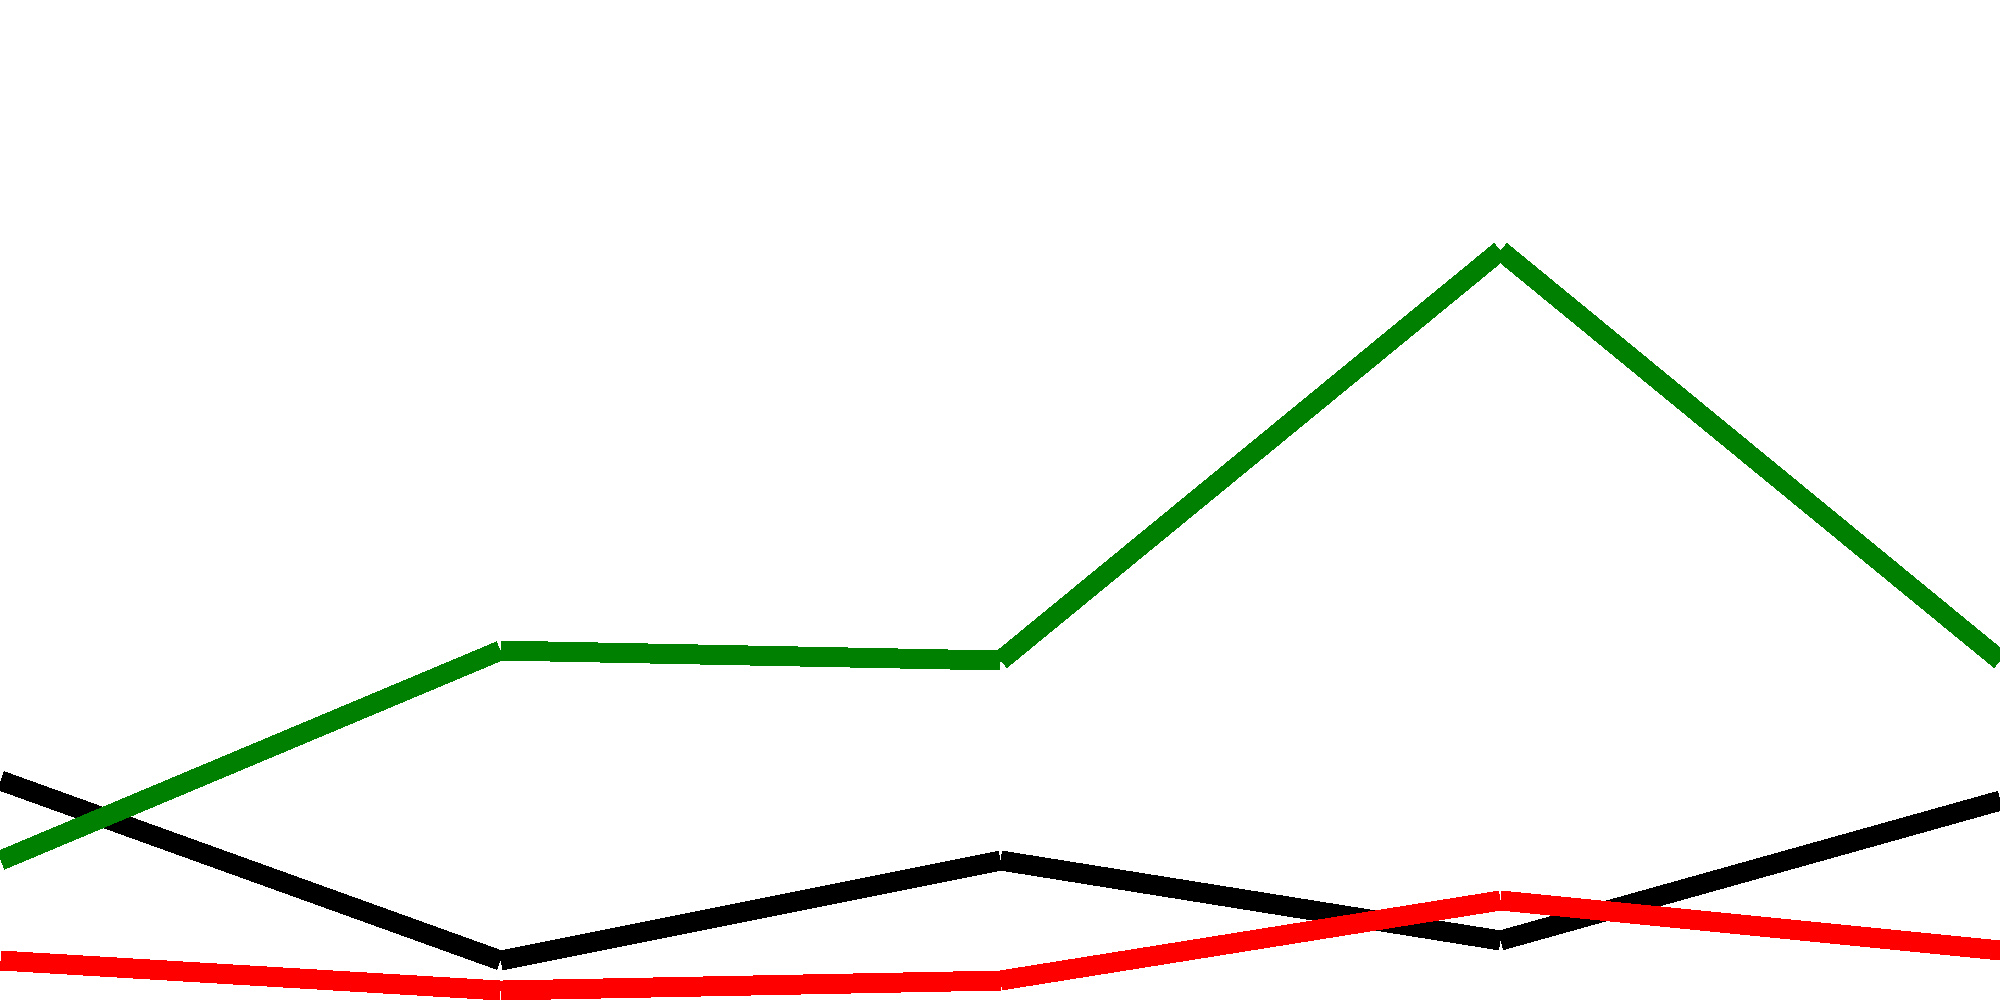
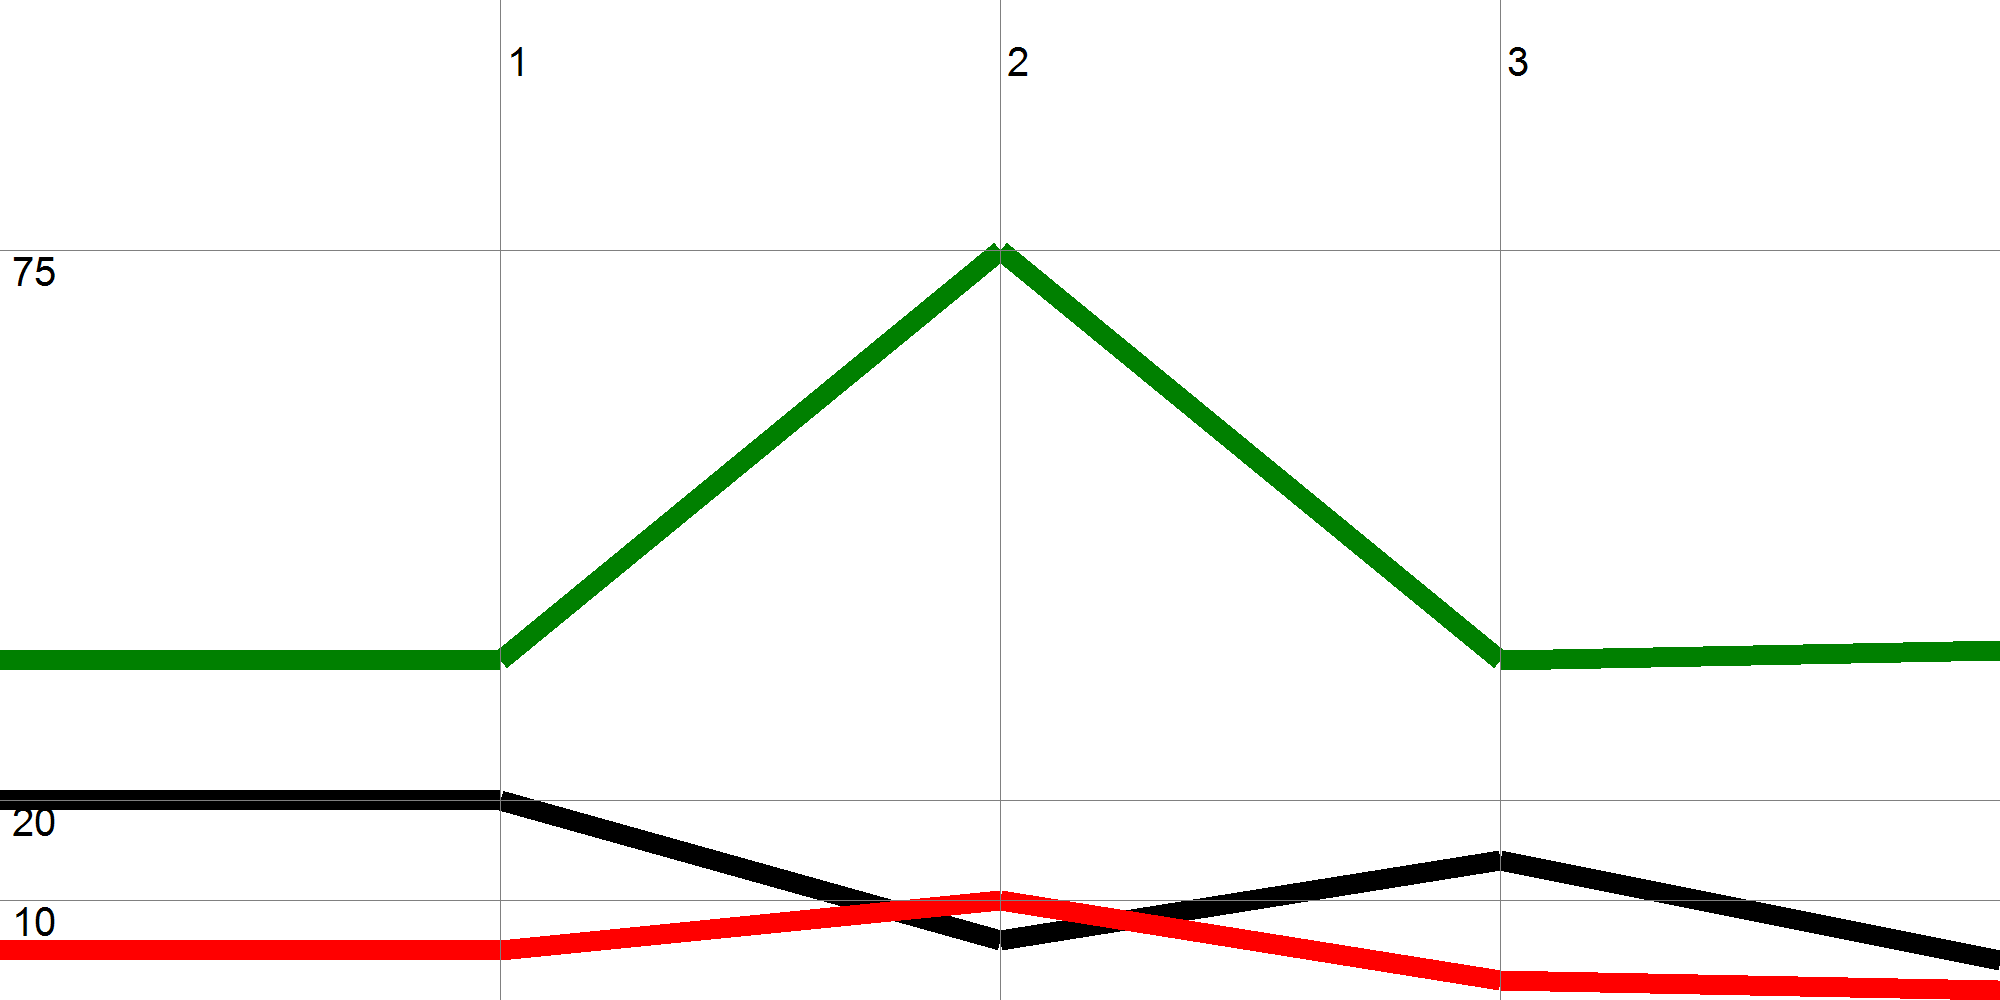
Add references to value on axis

diff --git a/Assets/Statistics/ImageScript.cs b/Assets/Statistics/ImageScript.cs
@@ -3,72 +3,115 @@ using System.Collections;
 using System.Drawing;
 using UnityEngine.UI;
 using System.Collections.Generic;
-//using System.Windows.Forms;
 using System;
 
 public class ImageScript : MonoBehaviour {
-	
+
+	private const int width = 2000;
+	private const int height = 1000;
+	private const int widthPen = 20;
+	private const int measureQuantity = 3;
+
+	public int scale;
+
 	private GameObject raw;
 
-	public void DrawLineInt(Bitmap bmp){
-		Pen blackPen = new Pen(System.Drawing.Color.Black, 20);
-		Pen greenPen = new Pen(System.Drawing.Color.Green, 20);
-		Pen redPen = new Pen(System.Drawing.Color.Red, 20);
+	public void drawLines(Bitmap bmp){
+		Pen blackPen = new Pen(System.Drawing.Color.Black, widthPen);
+		Pen greenPen = new Pen(System.Drawing.Color.Green, widthPen);
+		Pen redPen = new Pen(System.Drawing.Color.Red, widthPen);
 
 		using(var graphics = System.Drawing.Graphics.FromImage(bmp)){
 			long count = DatabaseSingleton.Instance.db.SelectCount("from Measure where playerId==?", Convert.ToInt64(1));
 		
-			int rounds = (Convert.ToInt32(count)/3);
-			int x = 2000/rounds;
-			int j = 0;
+			int rounds = (Convert.ToInt32(count)/measureQuantity);
+			int x = width/rounds;
+			int j = 0, max = 0, min = 0, average = 0;
 			Measure last = new Measure(0, 0, 0, 0, 0, 0);
 			foreach(var i in DatabaseSingleton.Instance.db.Select<Measure>("from Measure where playerId==? order by type", Convert.ToInt64(1))){
 				int x1 = x*j;
-				int y1 = 1000 - (last.average * 10);
+				int y1 = height - (last.average * scale);
 				int x2 = x*(j+1);
-				int y2 = 1000 - (i.average * 10);
+				int y2 = height - (i.average * scale);
+				average = Math.Max(average, i.average);
 
 				int x3 = x*j;
-				int y3 = 1000 - (last.min * 10);
+				int y3 = height - (last.min * scale);
 				int x4 = x*(j+1);
-				int y4 = 1000 - (i.min * 10);
+				int y4 = height - (i.min * scale);
+				min = Math.Max(min, i.min);
 
 				int x5 =  x*j;
-				int y5 = 1000 - (last.max * 10);
+				int y5 = height - (last.max * scale);
 				int x6 = x*(j+1);
-				int y6 = 1000 - (i.max * 10);
+				int y6 = height - (i.max * scale);
+				max = Math.Max(max, i.max);
 
 				if(i.type == 0 && gameObject.name == "ImageVelocity"){
 					graphics.DrawLine(blackPen, x1 ,y1, x2, y2);
 					graphics.DrawLine(redPen, x3 ,y3, x4, y4);
 					graphics.DrawLine(greenPen, x5 ,y5, x6, y6);
-
-					//graphics.TextRenderingHint = System.Drawing.Text.TextRenderingHint.AntiAliasGridFit;
-					//TextRenderer.DrawText(graphics, "Hello World",  new System.Drawing.Font("Arial", 12), new Point(0, y4), System.Drawing.Color.Red);
-
+					if((j+1)%rounds == 0) drawReferPoints(bmp, max, min, average, x); 
 				}else if(i.type == 1 && gameObject.name == "ImageHeart"){
 					graphics.DrawLine(blackPen, x1 ,y1, x2, y2);
 					graphics.DrawLine(redPen, x3 ,y3, x4, y4);
 					graphics.DrawLine(greenPen, x5 ,y5, x6, y6);
+					if((j+1)%rounds == 0) drawReferPoints(bmp, max, min, average, x); 
 				}else if (i.type == 2 && gameObject.name == "ImageElectrodermal"){
 					graphics.DrawLine(blackPen, x1 ,y1, x2, y2);
 					graphics.DrawLine(redPen, x3 ,y3, x4, y4);
 					graphics.DrawLine(greenPen, x5 ,y5, x6, y6);
-
+					if((j+1)%rounds == 0) drawReferPoints(bmp, max, min, average, x); 
 				}
 				last = i;
 				j++;
-				if(j%rounds == 0)j=0;
-			
+				if(j%rounds == 0) j = max = min = average = 0; 
 			}
-
 		}
 	
+	}
+
+	public void drawReferPoints(Bitmap bmp, int max, int min, int average, int xStep) {
+		Pen grayPen = new Pen(System.Drawing.Color.Gray, 1); 
+
+		using (var graphics = System.Drawing.Graphics.FromImage(bmp)) {
+		
+			System.Drawing.Font drawFont = new System.Drawing.Font("Arial", 30);
+			SolidBrush drawBrush = new SolidBrush(System.Drawing.Color.Black);
+
+			float y = (float)height-(min * scale);
+			String drawString = Convert.ToString(min);
+			PointF drawPoint = new PointF(5F, y);
+			graphics.DrawString(drawString, drawFont, drawBrush, drawPoint);
+			graphics.DrawLine(grayPen, 0F, y, width, y);
+
+			y = (float)height-(max * scale);
+			drawString = Convert.ToString(max);
+			drawPoint = new PointF(5F, (float)height-(max * scale));
+			graphics.DrawString(drawString, drawFont, drawBrush, drawPoint);
+			graphics.DrawLine(grayPen, 0F, y, width, y);
+
+			y = (float)height-(average * scale);
+			drawString = Convert.ToString(average);
+			drawPoint = new PointF(5F, (float)height-(average * scale));
+			graphics.DrawString(drawString, drawFont, drawBrush, drawPoint);
+			graphics.DrawLine(grayPen, 0F, y, width, y);
+
+			if(xStep < 10) xStep = 10;
+
+			for(int i = xStep; i <= width; i+= xStep){
+				drawString = Convert.ToString(i/xStep);
+				drawPoint = new PointF((float)i, 40F);
+				graphics.DrawString(drawString, drawFont, drawBrush, drawPoint);
+				graphics.DrawLine(grayPen, i, 0F, i, height);
+			}
+		}
+
 	}
 	
 	void Start () {
 		try{
-			Bitmap image = (Bitmap) new Bitmap(2000,1000);
+			Bitmap image = (Bitmap) new Bitmap(width, height);
 
 			TextureBrush texture = new TextureBrush(image);
 			texture.WrapMode = System.Drawing.Drawing2D.WrapMode.Tile;
@@ -76,7 +119,7 @@ public class ImageScript : MonoBehaviour {
 			System.Drawing.Graphics g = System.Drawing.Graphics.FromImage(image);
 			g.Clear(System.Drawing.Color.White);
 
-			DrawLineInt(image);
+			drawLines(image);
 			
 			string filename = gameObject.name;
 			if(System.IO.File.Exists(@"Assets\Statistics\" + filename + ".png"))
